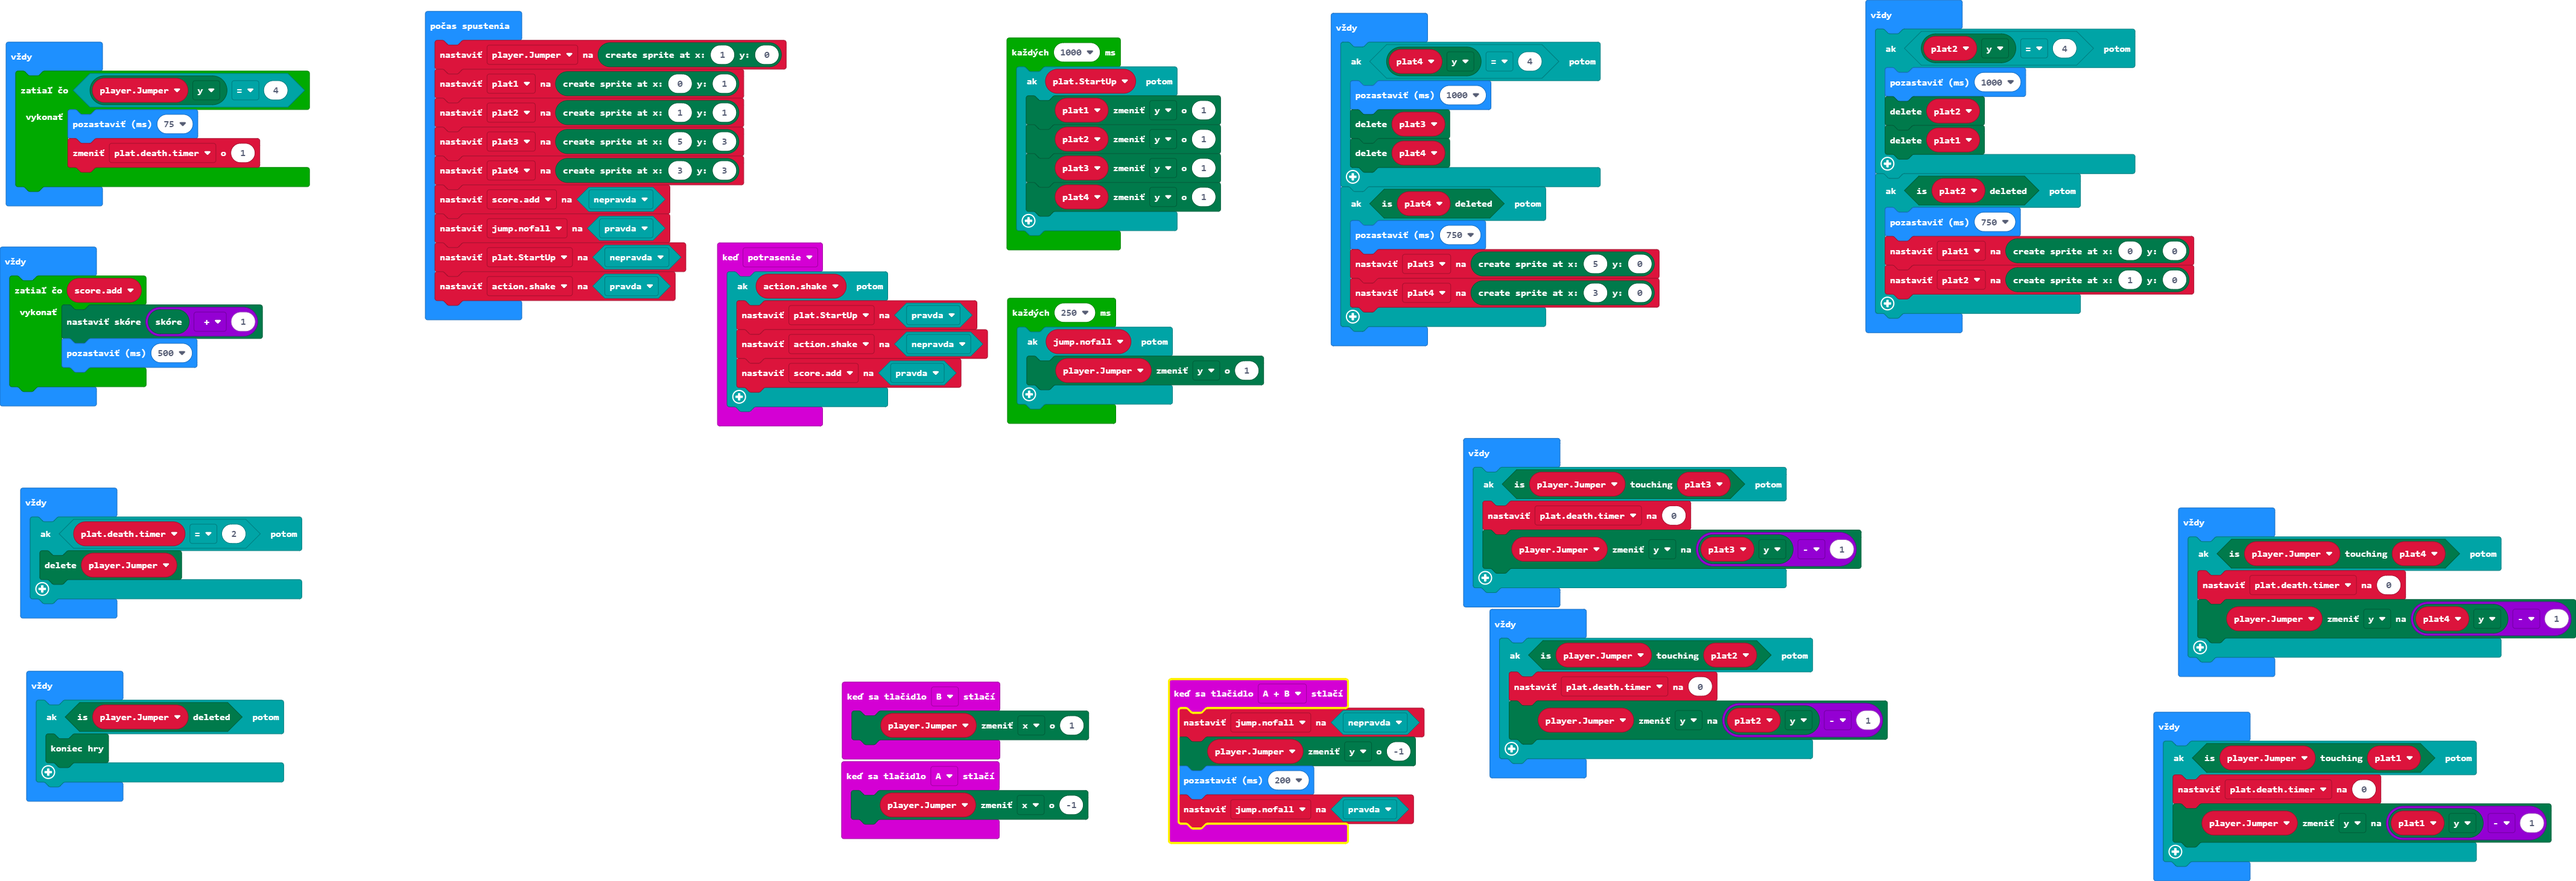
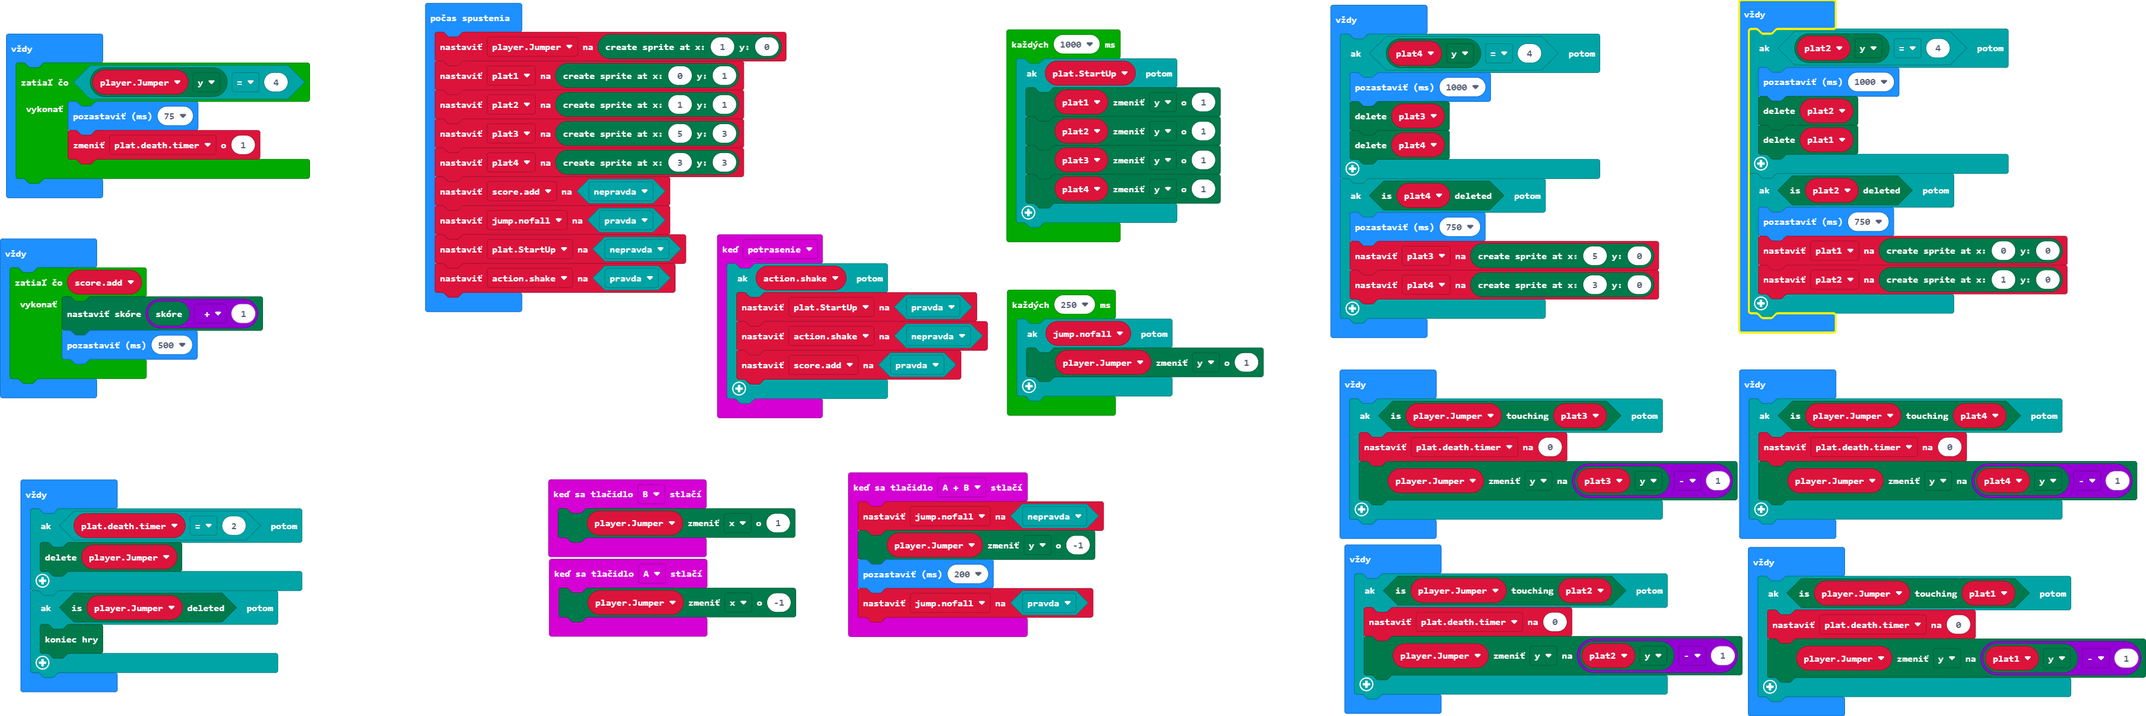
Aktualizovať main.blocks, main.ts

diff --git a/main.ts b/main.ts
@@ -77,11 +77,6 @@ basic.forever(function () {
     }
 })
 basic.forever(function () {
-    if (platdeathtimer == 2) {
-        playerJumper.delete()
-    }
-})
-basic.forever(function () {
     if (playerJumper.isTouching(plat3)) {
         platdeathtimer = 0
         playerJumper.set(LedSpriteProperty.Y, plat3.get(LedSpriteProperty.Y) - 1)
@@ -94,6 +89,9 @@ basic.forever(function () {
     }
 })
 basic.forever(function () {
+    if (platdeathtimer == 2) {
+        playerJumper.delete()
+    }
     if (playerJumper.isDeleted()) {
         game.gameOver()
     }
